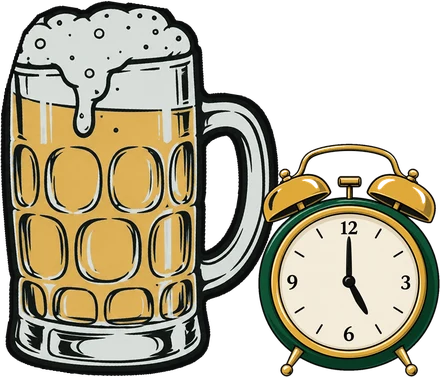
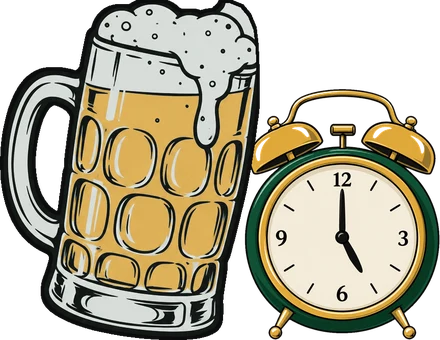
Happy Hour: the approved left beer mug leaning on the clock
Left mug cut from the approved beers-clinking art (splash removed, only the
foam pouring over the rim), leaning against the clock. Light bulb and title
belt approved.

diff --git a/components/Decor.tsx b/components/Decor.tsx
@@ -39,7 +39,7 @@ const ASPECT: Record<DecorName, number> = {
   "baseball-bat": 440 / 282,
   burger: 440 / 368,
   wings: 440 / 355,
-  "happy-hour": 440 / 377,
+  "happy-hour": 440 / 340,
   lightbulb: 375 / 440,
   "title-belt": 440 / 253,
 };
